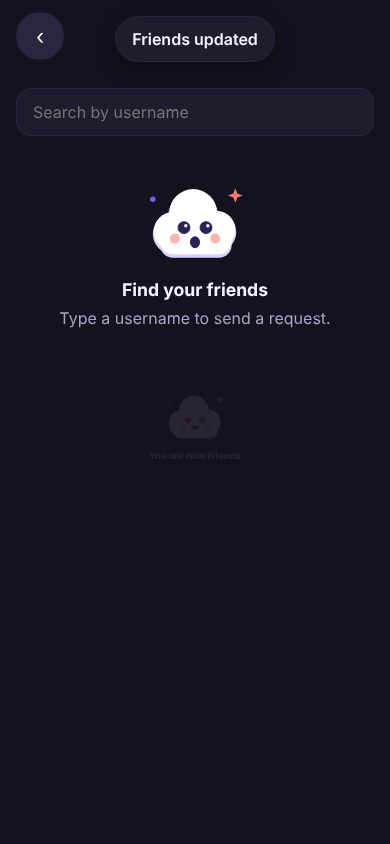
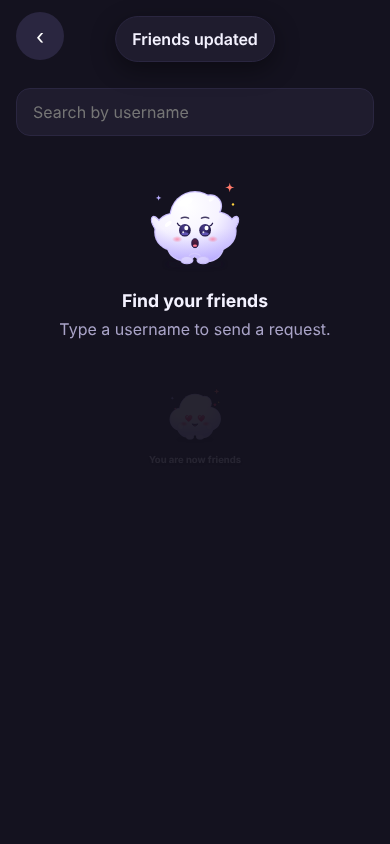
Redraw Puff with full shading, arms and feet
Puff is rebuilt at higher detail: a lit, shaded cloud body with rim
light and ground shadow, glossy eyes with highlights and lashes,
gradient cheeks and mouths, and little arms and feet that pose per
mood (wave, cheer, hands on cheeks). The app icon and marketing art
are regenerated from the new drawing.

Claude-Session: https://claude.ai/code/session_01C67QfwNZ9zEYn62kCMNv7X

Changed region(s): [[0.1538, 0.2156, 0.8308, 0.4005]]

diff --git a/poof/public/mascot.js b/poof/public/mascot.js
@@ -1,78 +1,120 @@
 'use strict';
 // Puff, the Poof mascot: a small cloud that vanishes. Drawn in code so it
-// scales anywhere and can change mood. mascotSVG(mood, size) -> SVG string.
+// scales anywhere and can change mood. mascotSVG(mood, size, label) -> SVG string.
 (() => {
-  const FACES = {
-    happy: {
-      eyes: '<ellipse cx="48" cy="58" rx="5" ry="6.5"/><ellipse cx="72" cy="58" rx="5" ry="6.5"/>',
-      mouth: '<path d="M53 70 Q60 77 67 70" fill="none" stroke-width="3.5" stroke-linecap="round"/>',
-    },
-    wink: {
-      eyes: '<ellipse cx="48" cy="58" rx="5" ry="6.5"/><path d="M66 59 Q72 53 78 59" fill="none" stroke-width="3.5" stroke-linecap="round"/>',
-      mouth: '<path d="M53 69 Q60 78 67 69 Z" stroke-width="2" stroke-linejoin="round"/>',
-    },
-    sleepy: {
-      eyes: '<path d="M42 59 Q48 64 54 59" fill="none" stroke-width="3.5" stroke-linecap="round"/><path d="M66 59 Q72 64 78 59" fill="none" stroke-width="3.5" stroke-linecap="round"/>',
-      mouth: '<ellipse cx="60" cy="72" rx="3" ry="2.5"/>',
-      extra: '<text x="8" y="26" font-size="14" font-weight="800" font-family="system-ui,sans-serif" fill="#a9a3c7">z</text><text x="20" y="14" font-size="10" font-weight="800" font-family="system-ui,sans-serif" fill="#a9a3c7">z</text>',
-    },
-    wow: {
-      eyes: '<circle cx="48" cy="57" r="6.5"/><circle cx="72" cy="57" r="6.5"/>',
-      mouth: '<ellipse cx="60" cy="73" rx="5" ry="6"/>',
-    },
-    love: {
-      eyes: '<path d="M48 64 C38 57 42 49 48 54 C54 49 58 57 48 64Z M72 64 C62 57 66 49 72 54 C78 49 82 57 72 64Z" fill="#ff3f6c" stroke="none"/>',
-      mouth: '<path d="M53 69 Q60 78 67 69 Z" stroke-width="2" stroke-linejoin="round"/>',
-    },
-    laugh: {
-      eyes: '<path d="M43 53 L52 58 L43 63 M77 53 L68 58 L77 63" fill="none" stroke-width="3.5" stroke-linecap="round" stroke-linejoin="round"/>',
-      mouth: '<path d="M50 67 Q60 84 70 67 Z" stroke-width="2" stroke-linejoin="round"/><ellipse cx="60" cy="76" rx="4.5" ry="2.5" fill="#ff7a8c" stroke="none"/>',
-    },
-    sad: {
-      eyes: '<ellipse cx="48" cy="60" rx="5" ry="6"/><ellipse cx="72" cy="60" rx="5" ry="6"/><path d="M41 49 L53 46 M67 46 L79 49" fill="none" stroke-width="3" stroke-linecap="round"/>',
-      mouth: '<path d="M53 75 Q60 69 67 75" fill="none" stroke-width="3.5" stroke-linecap="round"/>',
-      extra: '<path d="M40 66 C36 73 37 77 40 77 C43 77 44 73 40 66Z" fill="#6cc6ff"/>',
-    },
+  const INK = '#241a4a';
+  let uid = 0;
+
+  // ---------- eyes (centres at 98,122 and 142,122) ----------
+  const LX = 95;
+  const RX = 145;
+  const EY = 120;
+
+  function eye(x, id, { dx = 0, dy = 0, big = false, outer = 1 } = {}) {
+    const rx = big ? 14.5 : 12.5;
+    const ry = big ? 15.5 : 16.5;
+    const cx = x + dx;
+    const cy = EY + dy;
+    return `<ellipse cx="${cx}" cy="${cy}" rx="${rx}" ry="${ry}" fill="url(#${id}eye)"/>
+<ellipse cx="${cx}" cy="${cy + ry * 0.55}" rx="${rx * 0.62}" ry="${ry * 0.24}" fill="#8d7cff" opacity=".55"/>
+<ellipse cx="${cx + 3.5}" cy="${cy - 5.5}" rx="${big ? 5 : 4.4}" ry="${big ? 5.5 : 5.6}" fill="#fff"/>
+<circle cx="${cx - 4.2}" cy="${cy + 5}" r="${big ? 2.4 : 2.1}" fill="#fff" opacity=".85"/>
+<path d="M${cx + outer * (rx - 3)} ${cy - ry + 5} q${outer * 5} -2 ${outer * 7} -7" fill="none" stroke="${INK}" stroke-width="3" stroke-linecap="round"/>`;
+  }
+  const closedUp = (x) => `<path d="M${x - 11} ${EY + 4} Q${x} ${EY - 10} ${x + 11} ${EY + 4}" fill="none" stroke="${INK}" stroke-width="5" stroke-linecap="round"/>`;
+  const closedDown = (x, o) => `<path d="M${x - 12} ${EY} Q${x} ${EY + 10} ${x + 12} ${EY}" fill="none" stroke="${INK}" stroke-width="5" stroke-linecap="round"/><path d="M${x + o * 11} ${EY + 1} l${o * 5} 4" stroke="${INK}" stroke-width="3" stroke-linecap="round"/>`;
+  const chevron = (x, d) => `<path d="M${x - 9 * d} ${EY - 9} L${x + 8 * d} ${EY} L${x - 9 * d} ${EY + 9}" fill="none" stroke="${INK}" stroke-width="5.5" stroke-linecap="round" stroke-linejoin="round"/>`;
+  const heartEye = (x, id) => `<path d="M${x} ${EY + 13} C${x - 22} ${EY} ${x - 12} ${EY - 20} ${x} ${EY - 8} C${x + 12} ${EY - 20} ${x + 22} ${EY} ${x} ${EY + 13}Z" fill="url(#${id}heart)" stroke="#c4123f" stroke-width="1.5"/><ellipse cx="${x - 6}" cy="${EY - 6}" rx="3.5" ry="2.5" fill="#fff" opacity=".85" transform="rotate(-30 ${x - 6} ${EY - 6})"/>`;
+  const brow = (x, tilt, o, y = EY - 25) => `<path d="M${x - 9} ${y + tilt * o} Q${x} ${y - 4} ${x + 9} ${y - tilt * o}" fill="none" stroke="${INK}" stroke-width="3.6" stroke-linecap="round" opacity=".85"/>`;
+
+  // ---------- mouths (centre 120,146) ----------
+  const smile = `<path d="M108 144 Q120 156 132 144" fill="none" stroke="${INK}" stroke-width="4.5" stroke-linecap="round"/>`;
+  const openMouth = (id, w = 14, h = 20) => `<path d="M${120 - w} 142 Q120 ${142 + h * 1.25} ${120 + w} 142 Q120 146 ${120 - w} 142Z" fill="url(#${id}mouth)" stroke="${INK}" stroke-width="2.4" stroke-linejoin="round"/>
+<clipPath id="${id}mc"><path d="M${120 - w} 142 Q120 ${142 + h * 1.25} ${120 + w} 142 Q120 146 ${120 - w} 142Z"/></clipPath>
+<ellipse cx="120" cy="${142 + h * 0.75}" rx="${w * 0.6}" ry="${h * 0.32}" fill="#ff7c93" clip-path="url(#${id}mc)"/>`;
+
+  // ---------- extras ----------
+  const tear = (x, y, s = 1) => `<path d="M${x} ${y} C${x - 6 * s} ${y + 11 * s} ${x - 5 * s} ${y + 17 * s} ${x} ${y + 17 * s} C${x + 5 * s} ${y + 17 * s} ${x + 6 * s} ${y + 11 * s} ${x} ${y}Z" fill="#7fd0ff" stroke="#3a9ee0" stroke-width="1.5"/><ellipse cx="${x - 1.5 * s}" cy="${y + 11 * s}" rx="${1.6 * s}" ry="${2.4 * s}" fill="#fff" opacity=".8"/>`;
+  const zz = `<g font-family="system-ui,sans-serif" font-weight="900" fill="#b8acff"><text x="168" y="54" font-size="26">z</text><text x="188" y="34" font-size="19">z</text><text x="204" y="18" font-size="13">z</text></g>`;
+  const blushBig = (id) => `<ellipse cx="76" cy="142" rx="17" ry="11" fill="url(#${id}blush)"/><ellipse cx="164" cy="142" rx="17" ry="11" fill="url(#${id}blush)"/>`;
+
+  // mood -> { eyes(id), mouth(id), extra(id), arms: 'rest' | 'wave' | 'up' | 'cheeks' }
+  const MOODS = {
+    happy: { eyes: (id) => eye(LX, id, { outer: -1 }) + eye(RX, id), mouth: () => smile, arms: 'rest' },
+    wink: { eyes: (id) => eye(LX, id, { outer: -1 }) + closedUp(RX) + brow(RX, 2, 1), mouth: (id) => openMouth(id, 11, 14), arms: 'wave' },
+    sleepy: { eyes: () => closedDown(LX, -1) + closedDown(RX, 1), mouth: () => '<ellipse cx="120" cy="150" rx="5" ry="4" fill="#4a2340"/>', extra: () => zz, arms: 'rest' },
+    wow: { eyes: (id) => eye(LX, id, { big: true, outer: -1 }) + eye(RX, id, { big: true }) + brow(LX, 0, 1, EY - 30) + brow(RX, 0, 1, EY - 30), mouth: (id) => `<ellipse cx="120" cy="152" rx="8" ry="11" fill="url(#${id}mouth)" stroke="${INK}" stroke-width="2.4"/><ellipse cx="120" cy="158" rx="5" ry="3" fill="#ff7c93"/>`, arms: 'up' },
+    love: { eyes: (id) => heartEye(LX, id) + heartEye(RX, id), mouth: (id) => openMouth(id, 12, 15), extra: (id) => blushBig(id) + `<path d="M196 70 c-6 -5 -2 -12 3 -8 c5 -4 9 3 3 8 l-3 3z" fill="#ff3f6c"/><path d="M40 84 c-4 -3 -1 -8 2 -5 c3 -3 6 2 2 5 l-2 2z" fill="#ff7a9a"/>`, arms: 'cheeks' },
+    laugh: { eyes: () => chevron(LX, 1) + chevron(RX, -1), mouth: (id) => openMouth(id, 17, 24), extra: () => tear(74, 118, 0.8) + tear(166, 118, 0.8), arms: 'up' },
+    sad: { eyes: (id) => eye(LX, id, { dy: 3, outer: -1 }) + eye(RX, id, { dy: 3 }) + brow(LX, -4, -1) + brow(RX, -4, 1), mouth: () => `<path d="M108 156 Q120 146 132 156" fill="none" stroke="${INK}" stroke-width="4.5" stroke-linecap="round"/>`, extra: () => tear(86, 134), arms: 'rest' },
     cool: {
-      eyes: '<rect x="38" y="52" width="19" height="12" rx="5"/><rect x="63" y="52" width="19" height="12" rx="5"/><path d="M57 56 L63 56" fill="none" stroke-width="3"/><path d="M42 56 L48 56 M67 56 L73 56" stroke="#fff" stroke-width="2" stroke-linecap="round" opacity=".6"/>',
-      mouth: '<path d="M54 72 Q62 74 68 68" fill="none" stroke-width="3.5" stroke-linecap="round"/>',
+      eyes: (id) => `<path d="M80 110 L160 110 Q162 110 161 113 L158 126 Q155 136 144 136 L138 136 Q128 136 125 126 L123 118 L117 118 L115 126 Q112 136 102 136 L96 136 Q85 136 82 126 L79 113 Q78 110 80 110Z" fill="url(#${id}shades)" stroke="#0e0a1c" stroke-width="2"/><path d="M88 116 L100 116 M132 116 L144 116" stroke="#fff" stroke-width="3" stroke-linecap="round" opacity=".55"/><path d="M80 112 L68 106 M160 112 L172 106" stroke="#0e0a1c" stroke-width="3" stroke-linecap="round"/>`,
+      mouth: () => `<path d="M110 150 Q124 154 134 142" fill="none" stroke="${INK}" stroke-width="4.5" stroke-linecap="round"/>`, arms: 'wave',
     },
-    shy: {
-      eyes: '<ellipse cx="45" cy="60" rx="4.5" ry="5.5"/><ellipse cx="69" cy="60" rx="4.5" ry="5.5"/>',
-      mouth: '<path d="M55 71 Q59 74 63 71" fill="none" stroke-width="3" stroke-linecap="round"/>',
-      extra: '<circle cx="38" cy="69" r="7" fill="#ff5f7e" opacity=".45"/><circle cx="82" cy="69" r="7" fill="#ff5f7e" opacity=".45"/>',
-    },
+    shy: { eyes: (id) => eye(LX, id, { dx: -3, dy: 3, outer: -1 }) + eye(RX, id, { dx: -3, dy: 3 }), mouth: () => `<path d="M113 150 Q119 154 125 150" fill="none" stroke="${INK}" stroke-width="3.6" stroke-linecap="round"/>`, extra: (id) => blushBig(id) + blushBig(id), arms: 'cheeks' },
     party: {
-      eyes: '<path d="M43 59 Q48 52 53 59 M67 59 Q72 52 77 59" fill="none" stroke-width="3.5" stroke-linecap="round"/>',
-      mouth: '<path d="M50 67 Q60 82 70 67 Z" stroke-width="2" stroke-linejoin="round"/>',
-      extra: '<path d="M50 20 L60 -4 L70 20 Z" fill="#ff7a6b" transform="translate(0 2)"/><path d="M53 15 L67 15 M56 8 L64 8" stroke="#ffd23f" stroke-width="2.5"/><circle cx="60" cy="-2" r="3.5" fill="#ffd23f"/><g fill="#3db4ff"><rect x="22" y="14" width="4" height="7" rx="1" transform="rotate(25 24 17)"/><rect x="92" y="34" width="4" height="7" rx="1" transform="rotate(-30 94 37)"/></g><g fill="#3ddc97"><rect x="30" y="34" width="4" height="7" rx="1" transform="rotate(-20 32 37)"/><rect x="88" y="10" width="4" height="7" rx="1" transform="rotate(40 90 13)"/></g>',
+      eyes: () => closedUp(LX) + closedUp(RX), mouth: (id) => openMouth(id, 15, 20),
+      extra: (id) => `<g transform="rotate(12 150 30)"><path d="M126 46 L150 -14 L174 46 Q150 54 126 46Z" fill="url(#${id}hat)" stroke="#c94a3a" stroke-width="2"/><path d="M134 26 Q150 31 166 26 M141 8 Q150 11 159 8" fill="none" stroke="#ffd23f" stroke-width="5" stroke-linecap="round"/><circle cx="150" cy="-16" r="8" fill="#ffd23f" stroke="#e0a812" stroke-width="2"/></g>
+<g>${[[34, 60, '#3db4ff', 20], [206, 92, '#3ddc97', -30], [48, 30, '#ff5d8f', 40], [200, 40, '#ffd23f', 15], [22, 110, '#7c5cff', -20], [218, 150, '#ff7a6b', 30]].map(([x, y, c, r]) => `<rect x="${x}" y="${y}" width="6" height="12" rx="2" fill="${c}" transform="rotate(${r} ${x + 3} ${y + 6})"/>`).join('')}</g>`,
+      arms: 'up',
     },
   };
 
+  function arms(pose, id) {
+    const arm = (d) => `<path d="${d}" fill="url(#${id}body)" stroke="#c9bdfb" stroke-width="2.5"/>`;
+    const restL = 'M32 146 C12 144 2 160 10 170 C18 180 34 170 40 158Z';
+    const restR = 'M208 146 C228 144 238 160 230 170 C222 180 206 170 200 158Z';
+    switch (pose) {
+      case 'wave': return { back: arm(restL) + arm('M204 128 C214 106 226 84 238 88 C250 94 238 118 218 144Z') +
+        '<path d="M244 76 q6 4 4 12 M252 70 q8 6 6 18" fill="none" stroke="#b8acff" stroke-width="3" stroke-linecap="round"/>', front: '' };
+      case 'up': return { back: arm('M36 132 C16 116 6 92 16 86 C26 82 38 106 50 124Z') + arm('M204 132 C224 116 234 92 224 86 C214 82 202 106 190 124Z'), front: '' };
+      case 'cheeks': return { back: '', front: arm('M58 166 C48 156 50 140 62 138 C74 138 78 154 70 164Z') + arm('M182 166 C192 156 190 140 178 138 C166 138 162 154 170 164Z') };
+      default: return { back: arm(restL) + arm(restR), front: '' };
+    }
+  }
+
   function mascotSVG(mood = 'happy', size = 96, label = 'Puff, the Poof mascot') {
-    const f = FACES[mood] || FACES.happy;
-    const glints = mood === 'happy' || mood === 'wow' || mood === 'wink'
-      ? '<circle cx="50" cy="55" r="1.8" fill="#fff"/>' + (mood === 'wink' ? '' : '<circle cx="74" cy="55" r="1.8" fill="#fff"/>')
-      : '';
-    return `<svg xmlns="http://www.w3.org/2000/svg" viewBox="0 -8 120 108" width="${size}" height="${Math.round(size * 108 / 120)}" role="img" aria-label="${label}">
-  <g fill="#d9d1ff">
-    <circle cx="36" cy="64" r="22"/><circle cx="58" cy="44" r="27"/><circle cx="84" cy="62" r="21"/>
-    <rect x="22" y="62" width="78" height="28" rx="14"/>
+    const m = MOODS[mood] || MOODS.happy;
+    const id = 'pf' + (++uid);
+    const pose = arms(m.arms, id);
+    const lobes = [[120, 86, 60], [66, 124, 44], [174, 122, 46], [92, 154, 40], [150, 156, 40], [158, 60, 26]];
+    const lobeSet = (dy = 0, grow = 0) => lobes.map(([x, y, r]) => `<circle cx="${x}" cy="${y + dy}" r="${r + grow}"/>`).join('') +
+      `<rect x="${52 - grow}" y="${118 + dy}" width="${136 + grow * 2}" height="${56 + grow}" rx="${28 + grow}"/>`;
+    const sparkle = (x, y, s, c) => `<path d="M${x} ${y - 9 * s} C${x + 1.5 * s} ${y - 2 * s} ${x + 2 * s} ${y - 1.5 * s} ${x + 9 * s} ${y} C${x + 2 * s} ${y + 1.5 * s} ${x + 1.5 * s} ${y + 2 * s} ${x} ${y + 9 * s} C${x - 1.5 * s} ${y + 2 * s} ${x - 2 * s} ${y + 1.5 * s} ${x - 9 * s} ${y} C${x - 2 * s} ${y - 1.5 * s} ${x - 1.5 * s} ${y - 2 * s} ${x} ${y - 9 * s}Z" fill="${c}"/>`;
+    return `<svg xmlns="http://www.w3.org/2000/svg" viewBox="-16 -34 272 272" width="${size}" height="${size}" role="img" aria-label="${label}">
+<defs>
+  <radialGradient id="${id}body" gradientUnits="userSpaceOnUse" cx="100" cy="60" r="150"><stop offset="0" stop-color="#ffffff"/><stop offset=".55" stop-color="#f6f3ff"/><stop offset="1" stop-color="#cfc4ff"/></radialGradient>
+  <linearGradient id="${id}shadow" x1="0" y1="0" x2="0" y2="1"><stop offset=".55" stop-color="#b9abff" stop-opacity="0"/><stop offset="1" stop-color="#9d8cff" stop-opacity=".55"/></linearGradient>
+  <radialGradient id="${id}eye" cx="40%" cy="30%" r="80%"><stop offset="0" stop-color="#4b3d8f"/><stop offset=".6" stop-color="#2a2057"/><stop offset="1" stop-color="#160f33"/></radialGradient>
+  <radialGradient id="${id}blush"><stop offset="0" stop-color="#ff6f8e" stop-opacity=".7"/><stop offset="1" stop-color="#ff6f8e" stop-opacity="0"/></radialGradient>
+  <linearGradient id="${id}mouth" x1="0" y1="0" x2="0" y2="1"><stop offset="0" stop-color="#5a2346"/><stop offset="1" stop-color="#2e1030"/></linearGradient>
+  <linearGradient id="${id}heart" x1="0" y1="0" x2="0" y2="1"><stop offset="0" stop-color="#ff7a9a"/><stop offset="1" stop-color="#ff2457"/></linearGradient>
+  <linearGradient id="${id}shades" x1="0" y1="0" x2="0" y2="1"><stop offset="0" stop-color="#3a2f6e"/><stop offset="1" stop-color="#0e0a1c"/></linearGradient>
+  <linearGradient id="${id}hat" x1="0" y1="0" x2="1" y2="1"><stop offset="0" stop-color="#ff9a8a"/><stop offset="1" stop-color="#ff5d6b"/></linearGradient>
+  <filter id="${id}blur" x="-50%" y="-50%" width="200%" height="200%"><feGaussianBlur stdDeviation="5"/></filter>
+  <clipPath id="${id}clip">${lobeSet()}</clipPath>
+</defs>
+<ellipse cx="120" cy="204" rx="74" ry="9" fill="#120c2a" opacity=".28" filter="url(#${id}blur)"/>
+<g fill="#c9bdfb">${lobeSet(0, 3)}</g>
+${pose.back}
+<g fill="url(#${id}body)">${lobeSet()}</g>
+<g clip-path="url(#${id}clip)">
+  <rect x="0" y="0" width="240" height="210" fill="url(#${id}shadow)"/>
+  <g fill="none" stroke="#d6ccff" stroke-width="3" stroke-linecap="round" opacity=".9">
+    <path d="M106 182 Q118 172 132 182"/>
   </g>
-  <g fill="#ffffff">
-    <circle cx="36" cy="61" r="21"/><circle cx="58" cy="41" r="26"/><circle cx="84" cy="59" r="20"/>
-    <rect x="22" y="58" width="78" height="28" rx="14"/>
-  </g>
-  <circle cx="38" cy="69" r="5.5" fill="#ff7a6b" opacity=".55"/>
-  <circle cx="82" cy="69" r="5.5" fill="#ff7a6b" opacity=".55"/>
-  <g fill="#2a2257" stroke="#2a2257">${f.eyes}${f.mouth}</g>
-  ${glints}
-  <path d="M104 14 l2.2 5.8 5.8 2.2 -5.8 2.2 -2.2 5.8 -2.2 -5.8 -5.8 -2.2 5.8 -2.2z" fill="#ff7a6b"/>
-  ${mood === 'sleepy' ? '' : '<circle cx="14" cy="26" r="3" fill="#7c5cff"/>'}
-  ${f.extra || ''}
+  <g fill="#ffffff" opacity=".9"><ellipse cx="96" cy="50" rx="20" ry="9" transform="rotate(-24 96 50)"/><ellipse cx="54" cy="104" rx="10" ry="5" transform="rotate(-40 54 104)"/><ellipse cx="160" cy="44" rx="7" ry="4" transform="rotate(-30 160 44)"/></g>
+</g>
+<g fill="url(#${id}body)" stroke="#c9bdfb" stroke-width="2.5"><ellipse cx="100" cy="194" rx="15" ry="9"/><ellipse cx="140" cy="194" rx="15" ry="9"/></g>
+<ellipse cx="76" cy="142" rx="13" ry="8" fill="url(#${id}blush)"/><ellipse cx="164" cy="142" rx="13" ry="8" fill="url(#${id}blush)"/>
+${pose.front}
+${m.eyes(id)}
+${m.mouth(id)}
+${m.extra ? m.extra(id) : ''}
+${sparkle(206, 14, 1.3, '#ff7a6b')}${sparkle(30, 40, 0.8, '#b8acff')}<circle cx="214" cy="56" r="3" fill="#ffd23f"/>
 </svg>`;
   }
 
   window.mascotSVG = mascotSVG;
-  window.mascotMoods = Object.keys(FACES);
+  window.mascotMoods = Object.keys(MOODS);
 })();
